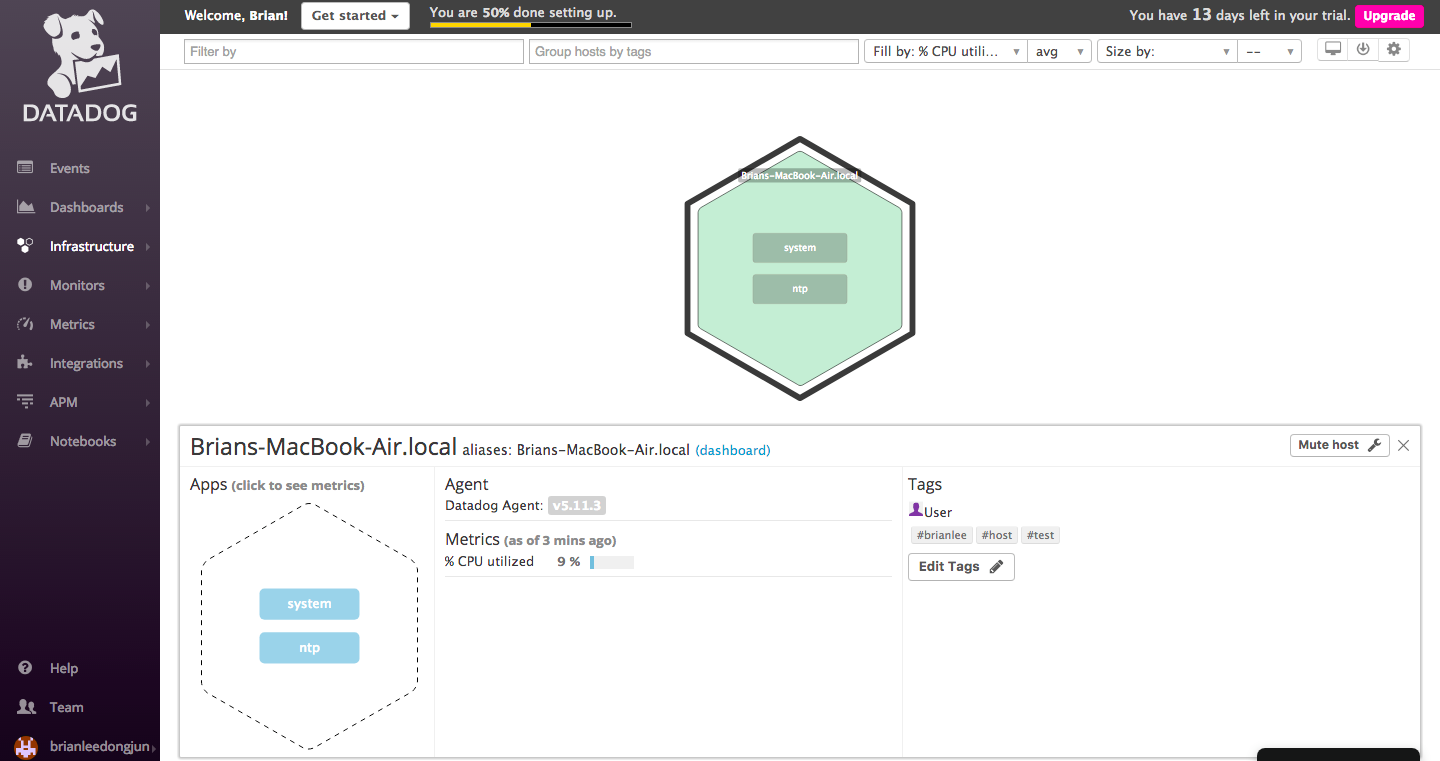
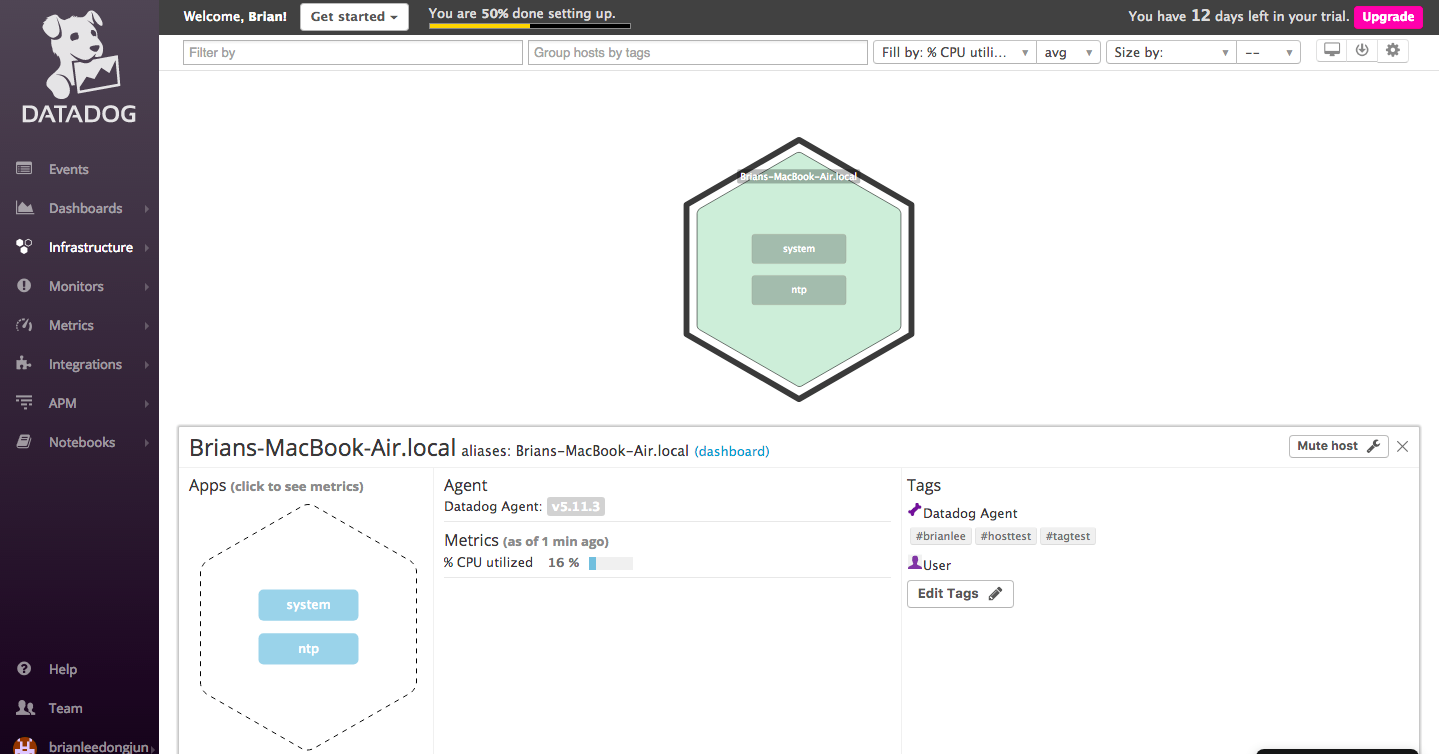
Finish all Level one questions.

diff --git a/Checks/random.py b/Checks/random.py
@@ -1,0 +1,7 @@
+import random
+print(random.random())
+
+from checks import AgentCheck
+class RandomCheck(AgentCheck):
+    def check(self, instance):
+        self.gauge('test.support.random', random.random())

diff --git a/answers.md b/answers.md
@@ -1,6 +1,6 @@
 # Level 1
 
-Sign up for Datadog (use "Datadog Recruiting Candidate" in the "Company" field), get the Agent reporting metrics from your local machine.
+1. Sign up for Datadog (use "Datadog Recruiting Candidate" in the "Company" field), get the Agent reporting metrics from your local machine.
 
 ![ScreenShot](/screenshots/Signup.png)
 
@@ -8,23 +8,42 @@ Bonus question: In your own words, what is the Agent?
 
 * The Agent is small software that collects data and events that runs on a host. It will collect data such as memory and CPU and send the metrics to the monitoring system application.
 
-Add tags in the Agent config file and show us a screenshot of your host and its tags on the Host Map page in Datadog.
+2. Add tags in the Agent config file and show us a screenshot of your host and its tags on the Host Map page in Datadog.
 
+Completed
+
+This is the result from adding tags to the Agent config file.
 ![ScreenShot](/screenshots/Tags.png)
 
-Install a database on your machine (MongoDB, MySQL, or PostgreSQL) and then install the respective Datadog integration for that database.
+3. Install a database on your machine (MongoDB, MySQL, or PostgreSQL) and then install the respective Datadog integration for that database.
 
-Write a custom Agent check that samples a random value. Call this new metric: test.support.random
+*Completed
 
+Below is the screenshot of postgresql showing up in checks using info command.
+![ScreenShot](/screenshots/Postgresql1.png)
+
+Below is the postgres.yaml config code.
+![ScreenShot](/screenshots/Postgresql2.png)
+
+Below is the confirmation from the Datadog application that postgres was integrated.
+![ScreenShot](/screenshots/Postgresql3.png)
+
+4. Write a custom Agent check that samples a random value. Call this new metric: test.support.random
 
 Here is a snippet that prints a random value in python:
 
 import random
 print(random.random())
 
+* I have included the files for making a custom Agent check of random. 
+
+Below is the screenshot of running the custome Agent check.
+![ScreenShot](/screenshots/RandomCheck.png)
+
 # Level 2 - Visualizing your Data
 
 Since your database integration is reporting now, clone your database integration dashboard and add additional database metrics to it as well as your test.support.random metric from the custom Agent check.
+
 Bonus question: What is the difference between a timeboard and a screenboard?
 Take a snapshot of your test.support.random graph and draw a box around a section that shows it going above 0.90. Make sure this snapshot is sent to your email by using the @notification
 
